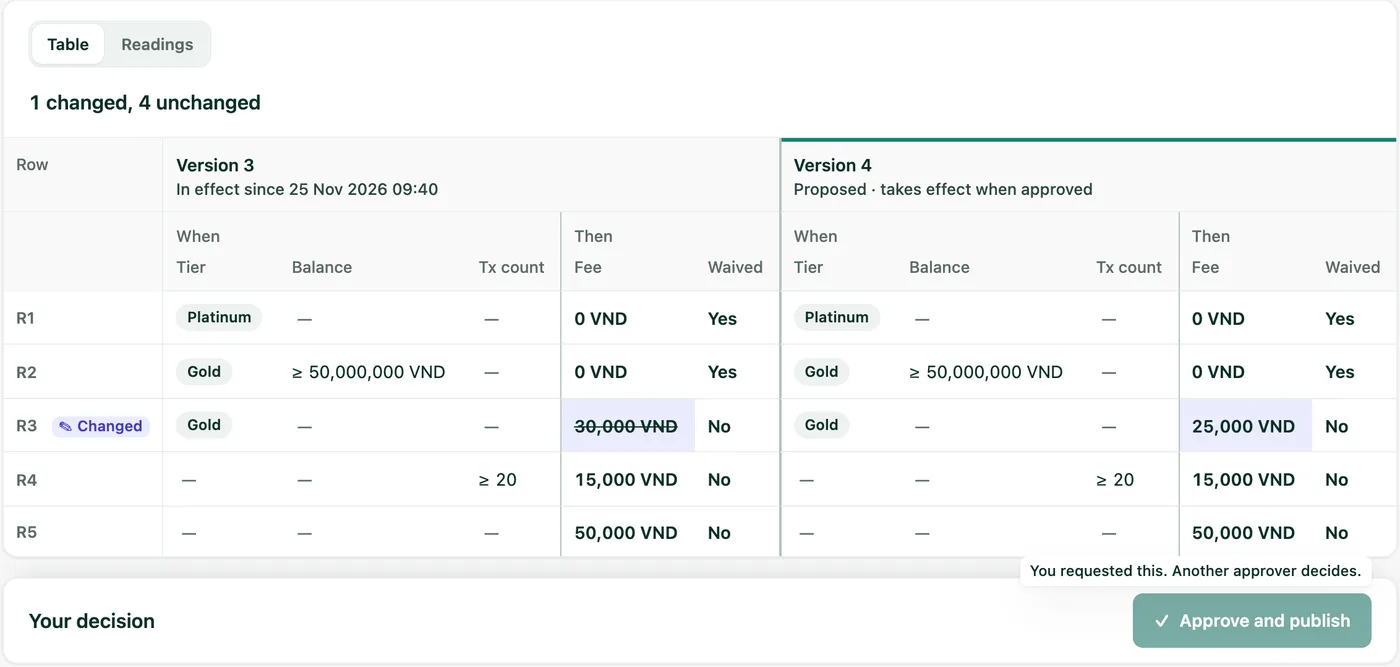
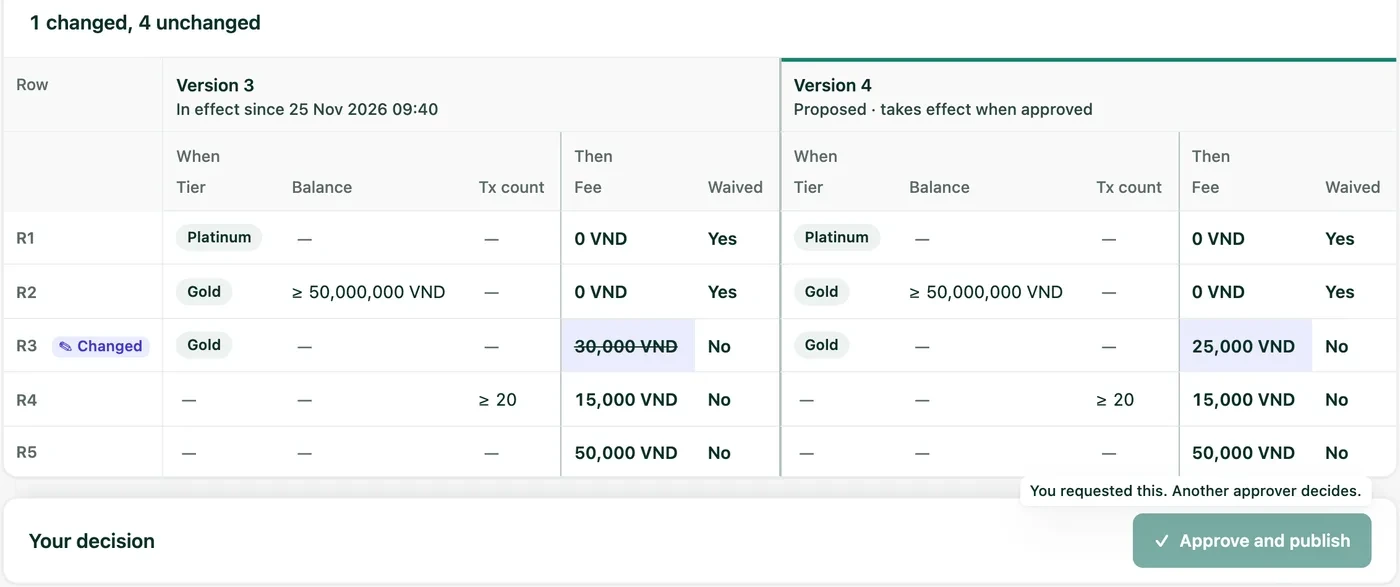
fix(site): homepage images, Mermaid error panels and screenshot frames (#614)
Rename process-1400.webp to process-1030.webp so the srcset resolves. Reserve each frame's aspect ratio and drop lazy loading. Crop the maker-checker and try-it screenshots below their toggle and tab bar, and make frames focusable only when they scroll. Fix two Mermaid sequence diagrams (';' in message text), set suppressErrorRendering, and add tests that parse every Mermaid block and that check-links reads srcset and poster.

diff --git a/site/.vitepress/theme/HorusHome.vue b/site/.vitepress/theme/HorusHome.vue
@@ -1,4 +1,5 @@
 <script setup>
+import { onMounted, onBeforeUnmount, ref } from 'vue';
 import { withBase } from 'vitepress';
 import HxIcons from './HxIcons.vue';
 import HxFooter from './HxFooter.vue';
@@ -23,16 +24,16 @@ const shots = [
   { id: 'timeline', wide: true, h1: 622, w2: 1400, eyebrow: 'Instance timeline', title: 'See each step, and what was undone.',
     text: 'A finished instance shows its steps, and which ones compensation undid.',
     alt: 'A process instance in the cockpit. Two service tasks are marked Undone, and their undo steps are marked Used to undo.' },
-  { id: 'rule-editor', wide: true, h1: 640, w2: 1400, eyebrow: 'Rule Engine', title: 'Edit a decision table in plain words.',
+  { id: 'rule-editor', wide: true, h1: 641, w2: 1400, eyebrow: 'Rule Engine', title: 'Edit a decision table in plain words.',
     text: 'Each rule reads back as a sentence. Publish without a code release.',
     alt: 'The decision table editor. Rows R1 to R5 each show a sentence such as "Rule R3 applies when tier is Gold".' },
-  { id: 'try-it', w1: 360, h1: 597, w2: 720, tall: true, eyebrow: 'Try it and simulate', title: 'Try the live rules. Simulate a draft.',
+  { id: 'try-it', w1: 360, h1: 528, w2: 720, tall: true, eyebrow: 'Try it and simulate', title: 'Try the live rules. Simulate a draft.',
     text: 'Try it runs the version in effect on sample values. Simulate compares a draft with the live version before anyone approves.',
     alt: 'A decision table with row R3 highlighted as matched for a Gold tier input.' },
-  { id: 'approver-review', wide: true, h1: 688, w2: 1400, eyebrow: 'Maker-checker', title: 'The approver reads the change in plain words.',
+  { id: 'approver-review', wide: true, h1: 608, w2: 1400, eyebrow: 'Maker-checker', title: 'The approver reads the change in plain words.',
     text: 'The current version sits beside the proposed one. The fee changes from 30,000 VND to 25,000 VND.',
     alt: 'Version 4 of a fee table beside the version in force, with the changed fee marked, and the Approve and publish and Reject buttons.' },
-  { id: 'self-approval', wide: true, h1: 666, w2: 1400, eyebrow: 'Four eyes', title: 'You cannot approve your own change.',
+  { id: 'self-approval', wide: true, h1: 587, w2: 1400, eyebrow: 'Four eyes', title: 'You cannot approve your own change.',
     text: 'The requester sees Approve disabled. If a call gets through, the engine refuses with a 403.',
     alt: 'The same review screen for the requester. The Approve and publish button is disabled with the note "You requested this. Another approver decides."' },
   { id: 'decision-log', h1: 318, w2: 1400, eyebrow: 'Decision log', title: 'Every decision, explained and recorded.',
@@ -40,6 +41,8 @@ const shots = [
     alt: 'A logged card-fee decision. The text says rule R3 of version 3 matched because tier is GOLD, with the result of a 30,000 VND fee.' }
 ];
 const src = (id, w) => withBase(`/images/home/${id}-${w}.webp`);
+// The width and height of the file `src` points at, so the browser reserves the real ratio before (or without) the image.
+const dims = (s) => ({ w: s.wide ? 1400 : s.w1 || 700, h: s.h1 });
 const srcset = (s) => `${src(s.id, s.w1 || 700)} ${s.w1 || 700}w, ${src(s.id, s.w2)} ${s.w2}w`;
 
 const compare = [
@@ -68,6 +71,15 @@ const features = [
   ['i-layers', 'Multi-tenancy', 'Tenant is the first key of every index.'],
   ['i-clock', 'Task queues and SLAs', 'Business-hours SLAs, escalation and compensation of earlier steps.']
 ];
+
+// A screenshot frame is a picture, not a control. It is keyboard-focusable only while it really scrolls sideways
+// (a phone-width viewport), so that a keyboard user can pan it; otherwise it has no tab stop and no focus ring.
+const frames = ref([]);
+const scrolls = ref({});
+let watcher;
+const measure = () => { frames.value.forEach((el) => { if (el) scrolls.value[el.dataset.shot] = el.scrollWidth > el.clientWidth + 1; }); };
+onMounted(() => { measure(); watcher = new ResizeObserver(measure); frames.value.forEach((el) => el && watcher.observe(el)); });
+onBeforeUnmount(() => watcher && watcher.disconnect());
 </script>
 
 <template>
@@ -144,8 +156,8 @@ const features = [
           <div class="sec-head center"><p class="eyebrow">See it run</p><h2>The cockpit, embedded in your service.</h2></div>
           <div class="show">
             <div v-for="(s, i) in shots" :key="s.id" class="row" :class="{ flip: i % 2 === 1 && !s.wide, tall: s.tall, wide: s.wide }">
-              <figure class="shot" :tabindex="s.tall ? undefined : 0" :role="s.tall ? undefined : 'group'" :aria-label="s.tall ? undefined : s.eyebrow">
-                <img :src="src(s.id, s.wide ? 1400 : s.w1 || 700)" :srcset="srcset(s)" :sizes="s.tall ? '360px' : s.wide ? '(max-width: 1240px) 100vw, 1200px' : '(max-width: 1100px) 100vw, 700px'" :width="s.wide ? 1400 : s.w1 || 700" :height="s.h1" :alt="s.alt" loading="lazy" decoding="async" />
+              <figure class="shot" ref="frames" :data-shot="s.id" :tabindex="scrolls[s.id] ? 0 : undefined" :role="scrolls[s.id] ? 'group' : undefined" :aria-label="scrolls[s.id] ? `Screenshot: ${s.eyebrow}. Scroll sideways to see all of it.` : undefined">
+                <img :src="src(s.id, s.wide ? 1400 : s.w1 || 700)" :srcset="srcset(s)" :sizes="s.tall ? '360px' : s.wide ? '(max-width: 1240px) 100vw, 1200px' : '(max-width: 1100px) 100vw, 700px'" :width="s.wide ? 1400 : s.w1 || 700" :height="s.h1" :alt="s.alt" :style="{ aspectRatio: `${dims(s).w} / ${dims(s).h}` }" decoding="async" />
               </figure>
               <div><p class="eyebrow">{{ s.eyebrow }}</p><h3>{{ s.title }}</h3><p>{{ s.text }}</p></div>
             </div>

diff --git a/site/.vitepress/theme/horus.css b/site/.vitepress/theme/horus.css
@@ -302,3 +302,8 @@
 .hx .row:not(.tall) .shot{overflow-x:auto}
 .hx .row:not(.tall) .shot img{width:auto;min-width:760px;max-width:none}
 }
+
+/* Screenshots are pictures: no pointer or text cursor, no drag ghost. A frame that scrolls sideways gets a quiet focus ring. */
+.hx .shot img { cursor: default; -webkit-user-drag: none; user-select: none; }
+.hx .shot:focus { outline: none; }
+.hx .shot:focus-visible { outline: 2px solid var(--line-strong); outline-offset: 3px; border-radius: var(--r-xl); }

diff --git a/wiki/Cockpit.md b/wiki/Cockpit.md
@@ -42,7 +42,7 @@ sequenceDiagram
     B->>H: GET /bpm/cockpit/cockpit-hosts.json
     H-->>B: one host, baseUrl "", auth mode host-session
     B->>H: GET /api/bpm/meta and /api/bpm/me with the session cookie
-    H-->>B: engines and versions; user, tenant and permissions
+    H-->>B: engines and versions, then user, tenant and permissions
     Note over B: Header shows service, tenant and user. A problem answer shows its code and correlationId instead.
 ```
 

diff --git a/wiki/Guide-Messages-Signals-and-Timers.md b/wiki/Guide-Messages-Signals-and-Timers.md
@@ -10,7 +10,7 @@ sequenceDiagram
   participant I as Instance at a receive task
   B->>API: POST /messages:correlate (name, key, Idempotency-Key)
   API->>I: the one token waiting for that name and key
-  I-->>API: continues; payload fields become variables
+  I-->>API: continues, and payload fields become variables
   API-->>B: 200 DELIVERED
 ```
 
